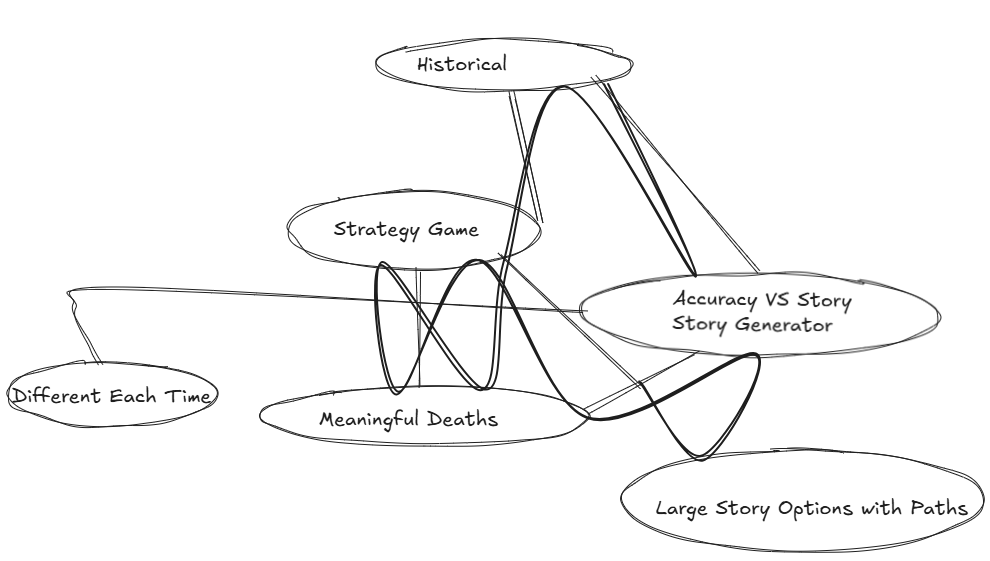
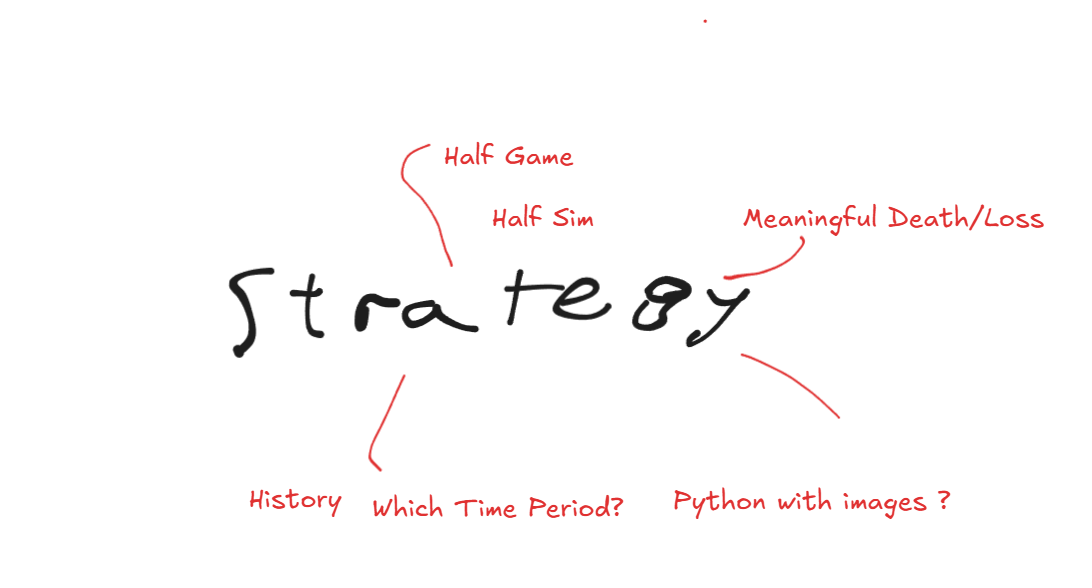
flowing charts and a green needle

diff --git a/Theory.md b/Theory.md
@@ -4,7 +4,7 @@
 
 ## Identifying the Need
 
-[INSERT GREEN NEEDLE HERE]
+![Brainstorm](Pictures\greenneedle.png)
 
 **Need:** To improve the number of strategic games where the death of soldiers actually matters.
 
@@ -28,7 +28,7 @@
 
 **User Interaction** Users will be able to respond to various randomly placed events during the course of the game and respond with various responses through the keyboard.
 
-**Gameplay/Simulation Mechanics** Users will be able to respond to events given by the game, these will then influence the success of missions, global stats, etc.
+**Gameplay/Simulation Mechanics** Users will be able to respond to events given by the game, these will then influence the success of missions, global stats, etc. This will all go towards a mission at the end of a set number of events/choices/minigames, providing large boosts, advancing the story, or something else.
 
 **Saving and Loading** Users will be able to save and load their current progress, saved on their machine with various variables.
 
@@ -58,3 +58,13 @@
 **Mental and Emotional Wellbeing** The game will be extremely tame, and though minor mental issues concerning the subject matter and personal experiences with war etc. may occur, the graphics or lack thereof should lead to a stable mental experience.
 
 **Cultural Sensitivity** The content of the game will be extremely culturally sensative, and little to no content will be at all of issue with any cultures. Other then reasonably tame depictions of war from the air, there should be no culturally sensative content involved.
+
+## Part II - Researching and Planning
+
+**Flowcharts**
+
+![Event Flow Chart](Pictures\efc.png)
+![Mission Flow Chart](Pictures\mfc.png)
+![Save/Load Flow Chart](Pictures\slfc.png)
+
+**Pseudo Code**
